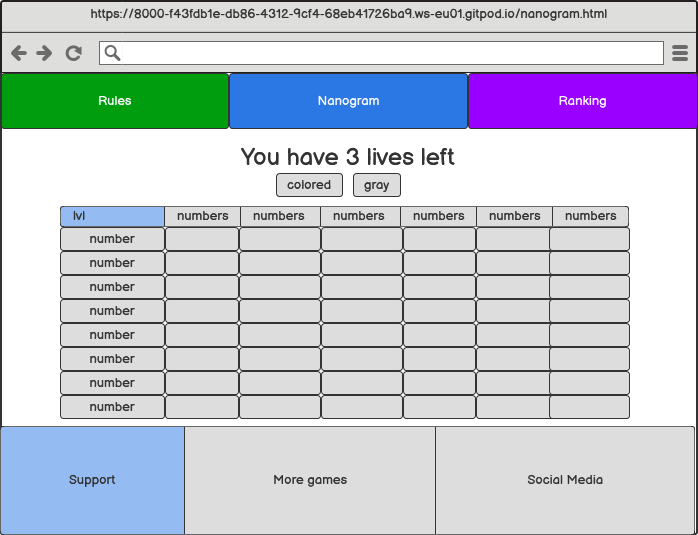
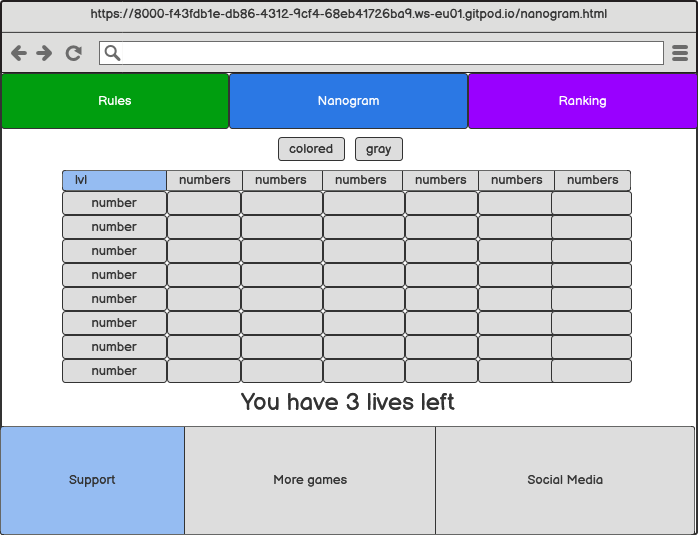
fixing wireframes and style

Changed region(s): [[0.0602, 0.2393, 0.9026, 0.8075]]

diff --git a/index.html b/index.html
@@ -42,13 +42,14 @@
 		</div>
 	</header>
 	<h2> HOW TO Win: </h2>
-	<h6>By avoiding to click on the gray boxes and find all the colorfull boxes before you run out of lives. you can
-		right-click on the gray boxes to rule them out. On mobile phones just hold your finger on the square for few
-		seconds to mark them as gray box.</h6>
-	<h2>How to play</h2>
+	<h6>By avoiding to click on the gray boxes when colored button is active and find all the colored boxes before you run out of lives. you can
+		switch between the colored or gray button to choose if this box is colored or gray.</h6>
+	<h2>How To Play</h2>
 	<h6>Every number on the corner boxes represents a sequence. for example:</h6>
-	<h3>You have <span id="hp">3</span> lives left</h3>
+	
     <div class="center">
+    <p> Change between the colored or gray button to choose if the box is colored or gray.<br>
+    <br>
     <button id="colored" class="switch active">Colored</button><button id="gray"  class="switch">Gray</button>
     </div>
 	<div class="container-fluid">
@@ -61,7 +62,7 @@
 						<div class="head">2</div>
 						<div class="head">1</div>
 						<div class="w-100"></div>
-						<div class="column small rules"> Just 1 box is colored in this column</div>
+						<div class="column small rules"><p> Just 1 box is colored in this column</p></div>
 						<div class="column">1<br></div>
 							<div class="square gray"></div>
 							<div class="square gray"></div>
@@ -69,7 +70,7 @@
 							<div class="square gray"></div>
 							<div class="square gray"></div>
 							<div class="w-100"></div>
-							<div class="column small rules"> 2 seperate colored boxes are in this column</div>
+							<div class="column small rules"><p> 2 seperate colored boxes are in this column</p></div>
 							<div class="column">1 1</div>
 							<div class="square gray"></div>
 							<div class="square red not-clicked-color"></div>
@@ -77,7 +78,7 @@
 							<div class="square red not-clicked-color"></div>
 							<div class="square gray"></div>
 							<div class="w-100"></div>
-							<div class="column small rules">all boxes in this column are colored</div>
+							<div class="column small rules"><p>all boxes in this column are colored</p></div>
 							<div class="column">5</div>
 							<div class="square blue not-clicked-color"></div>
 							<div class="square blue not-clicked-color"></div>
@@ -85,7 +86,7 @@
 							<div class="square blue not-clicked-color"></div>
 							<div class="square blue not-clicked-color"></div>
 							<div class="w-100"></div>
-							<div class="column small rules">Just 1 box is colored in this column</div>
+							<div class="column small rules"><p>Just 1 box is colored in this column</p></div>
 							<div class="column">1</div>
 							<div class="square gray"></div>
 							<div class="square gray"></div>
@@ -94,6 +95,7 @@
 							<div class="square gray"></div>
 						</div>
 					</div>
+                    <h3>You have <span id="hp">3</span> lives left</h3>
 					<h3 id="hint-btn">Hint <span id="hints">4</span></h3>
 					<p id="hint-note">You have 4 hints left</p>
 					<!--                                        footer -->

diff --git a/assets/css/style.css b/assets/css/style.css
@@ -8,6 +8,7 @@ html {
     margin: 0;
     padding: 0;
     overflow-x: hidden;
+    opacity: 1;
 }
 
 footer {
@@ -37,8 +38,8 @@ h3,
 h4 {
     font-family: "Sriracha", cursive;
     text-align: center;
-    margin-top: 55px;
-    margin-bottom: 40px;
+    margin-top: 25px;
+    margin-bottom: 25px;
 }
 
 .btn,
@@ -96,16 +97,13 @@ a:hover {
 
 
 .container-fluid{
-    margin: 0 auto;
-    padding-top: 25px;
-    max-width: 90%;
-    text-align: center;
+    padding-top: 20px;
+    margin-bottom: -20px;
 }
 
 div{
     border-radius: 8px;
 }
-
 
 header {
     min-height: 120px;
@@ -160,7 +158,7 @@ header {
     padding-top: 50px;
     text-align: center;
     text-transform: uppercase;
-    font-size: 15px;
+    font-size: 17px;
     font-weight: 600;
     font-family: "Sriracha", cursive;
     word-spacing: 4px;
@@ -233,7 +231,8 @@ body{
     width: 80px;
     padding: 2px; 
     font-size: 15px;
-    height: 30px;
+    height: 35px;
+    margin-top: 20px;
 }
  
 .switch:focus{
@@ -243,7 +242,7 @@ body{
 .active{
       background-color: #6b6666; 
       color: #fafafa; 
-      height: 35px;
+      height: 45px;
       font-size: 18px;
       border-radius: 5px;
 }
@@ -310,8 +309,13 @@ body{
     height: 60px;
     border: 1px solid;
     font-weight: bold;
+    
 }
 
+.column p{
+    font-size: 12px;
+    padding-top: 3px;
+}
 
 
 .lvl{
@@ -453,16 +457,16 @@ footer {
     font-size: 25px;
 }
 
-
 .social-links {
     margin: 0 auto;
+    padding-bottom: 5px;
+    margin-bottom: 10px;
 }
 
 .social-links li {
     padding-top: 20px;
     padding-right: 15px;
 }
-
 
 .social-links a i {
     width: 50px;
@@ -508,8 +512,26 @@ small{
         margin-left: -15px;
     }
     
-    .menuitem span,
-    .column,
+    h3{
+        font-size: 15px;
+        margin-top: 10px;
+        padding-top: 10px;
+        margin-bottom: 15px;
+    }
+    
+    .switch{
+        font-size: 10px;
+        margin-top: 10px;
+    }
+    
+    .menuitem span{
+        font-size: 13px;
+    }
+    
+    .column{
+        font-size: 10px;
+    }
+    
     .head,
     .lvl,
     th,
@@ -517,12 +539,18 @@ small{
         font-size: 10px;
     }
     
-    tr{
-        font-weight: bold;
+    #hint-btn{
+        height: 45px;
     }
     
-    h3{
-        margin-bottom: 0px;
+    .column p{
+        font-size: 9px;
+        padding-bottom:  2px;
+        margin-bottom: 2px;
+    }
+    
+    tr{
+        font-weight: bold;
     }
 }
 

diff --git a/assets/js/script.js b/assets/js/script.js
@@ -25,9 +25,9 @@ $(document).ready(function () {
     
  //                                                   hint rules
 
- let notes = ["the only way to have a sequence of 1 and 2 seperate colored boxes in the 3rd column is to right click on the first and the last boxes in this column","In the 2nd row, we want to fit 2 seperate colored boxes in 3 squares.<br> Right click on the first and the last box in the 2nd row",
-        "Now left click on all the boxes in first and last column since they already have one colored box in them",
-        "First right click on all the boxes in 3rd row"];
+ let notes = ["the only way to have a sequence of 1 and 2 seperate colored boxes in the 3rd column is to click on the first and the last boxes in this column when the colored button is active.","In the 2nd row, we want to fit 2 seperate colored boxes in 3 squares.<br> Click on the first and the last box in the 2nd row when colores button is active",
+        "Now click on the gray button and then click on all the boxes in first and last column since they already have one colored box in them",
+        "First click on all the boxes in 3rd row when colored button is active"];
         
  let counter = 4
 

diff --git a/nanogram.html b/nanogram.html
@@ -42,7 +42,7 @@
 		</div>
 	</header>
 	<!--                                                    nanogram-->
-	<h3>You have <span id="hp">3</span> lives left</h3>
+	
     <div class="center">
     <button id="colored" class="switch active">Colored</button><button id="gray"  class="switch">Gray</button>
     </div>
@@ -170,6 +170,7 @@
 											<div class="square blue not-clicked-color"></div>
 										</div>
 									</div>
+                                    <h3>You have <span id="hp">3</span> lives left</h3>
 									<!--                              footer -->
 									<footer class="nanogram-footer">
 										<div class="row footer-row">
